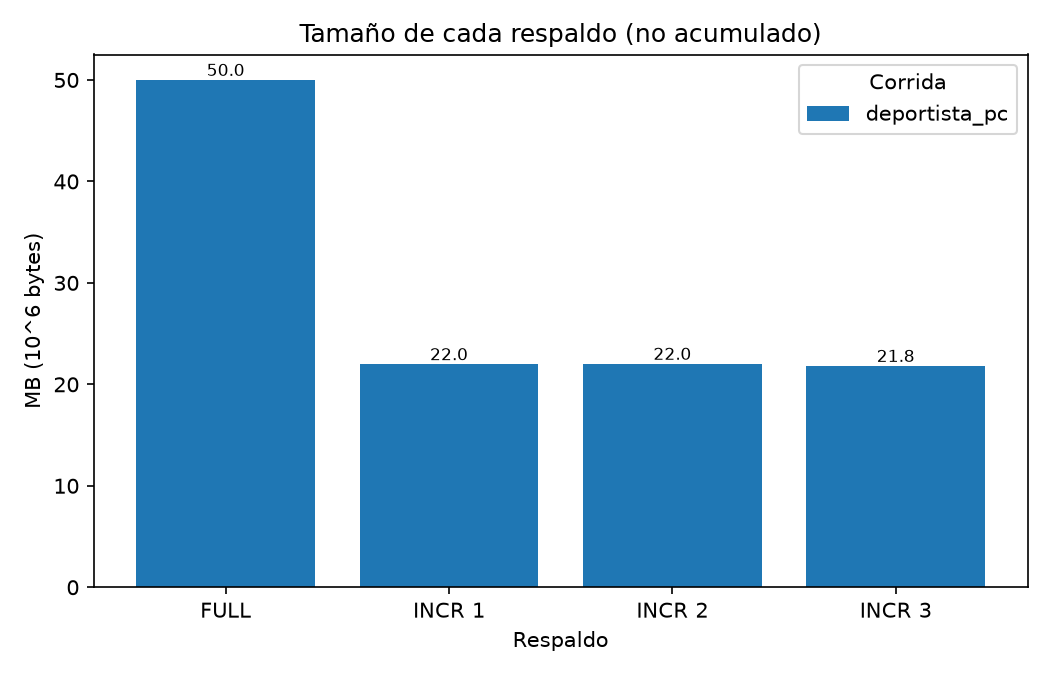
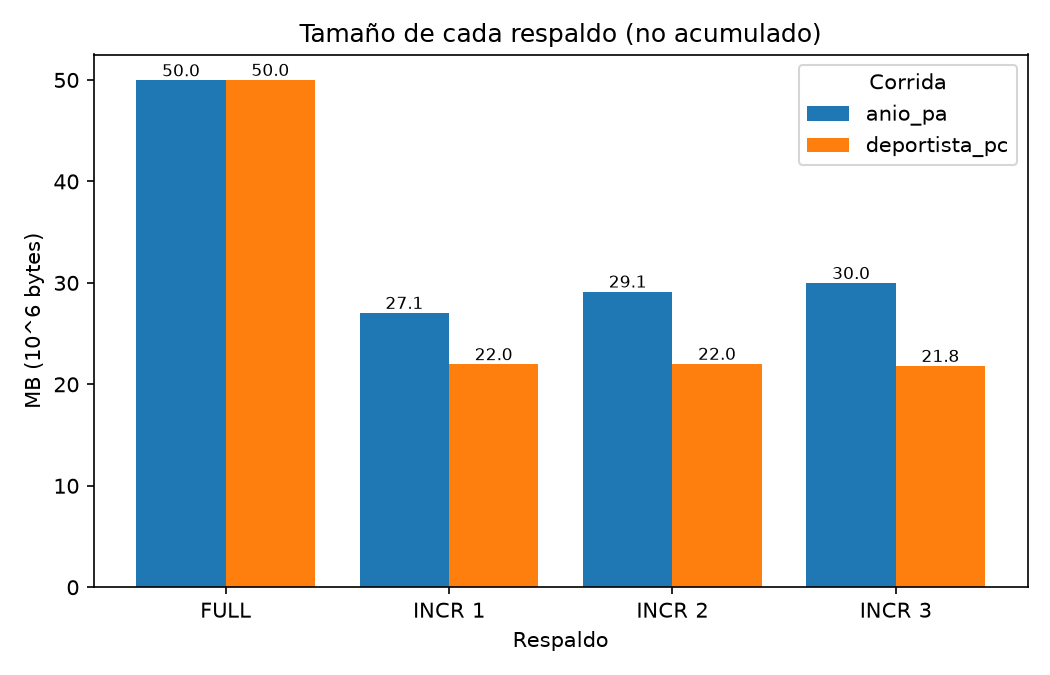
docs: resultados del analisis con anio_pa y deportista_pc
deporte_pb queda excluida: las filas de la repeticion 1 solo coinciden con logs rotados, no con los logs actuales.

diff --git a/Fase 2/07_documentacion/analisis/RESUMEN_ANALISIS.md b/Fase 2/07_documentacion/analisis/RESUMEN_ANALISIS.md
@@ -1,18 +1,60 @@
 # Resumen del análisis comparativo (sección 4.10)
 
-Generado por `07_documentacion/analisis/analizar.py` a partir de `05_logs/tiempos_*.csv`. Todos los números salen de los CSV y de los logs; no hay valores escritos a mano.
+Generado por `07_documentacion/analisis/analizar.py` a partir de `05_logs/tiempos_*.csv` y de los logs de cada corrida. Todos los números salen de esos archivos; no hay valores escritos a mano.
 
 ## Datos usados
 
-- `tiempos_anio_pa.csv`: excluido: el encabezado no es el de 14 columnas de la 4.10; tiene 20 líneas y se esperan 53; 4 líneas no tienen 14 campos (líneas 1, 2, 3, 4).
-- `tiempos_deportista_pc.csv`: válido.
-- `tiempos_deporte_pb.csv`: no existe. [PENDIENTE]
+- `tiempos_anio_pa.csv`: válido (formato y cruce con logs).
+- `tiempos_deporte_pb.csv`: **excluido** (4 motivos, todos en `ESTADO_CSV.md`). Primero: fila 9 (restore n=0 rep 1, total 0.741 s, inicio 18:39:29.179): no coincide con `deporte_pb_12_restore_cadena0_rep1.log` (Total 2.444 s, inicio 2026-10-16 22:48:23); solo coincide con el log rotado `deporte_pb_12_restore_cadena0_rep1.20261016_222939.log`.
+- `tiempos_deportista_pc.csv`: válido (formato y cruce con logs).
+- `tiempos_deportista_pa.csv`: no existe. [PENDIENTE]
+- `tiempos_deportista_pb.csv`: no existe. [PENDIENTE]
 
 Detalle en `ESTADO_CSV.md`.
 
 **Advertencia:** las máquinas del equipo son distintas. Entre máquinas se comparan razones (por ejemplo restore(n)/restore(0)), no segundos. Los segundos absolutos solo sirven dentro de una misma corrida.
 
+Las corridas válidas (anio_pa, deportista_pc) difieren a la vez en el tipo de carga y en la máquina (pa-laptop, pc-laptop). Entre ellas solo se comparan razones, y aun así no se puede separar el efecto de la carga del de la máquina.
+
 ## Medido
+
+### Corrida `anio_pa` (máquina `pa-laptop`)
+
+Respaldos (etapa `basebackup`):
+
+- FULL: 1.927 s, 49973573 bytes (49.97 MB).
+- INCR 1: 1.770 s, 27047530 bytes (27.05 MB).
+- INCR 2: 1.722 s, 29153134 bytes (29.15 MB).
+- INCR 3: 1.738 s, 29988752 bytes (29.99 MB).
+
+Razón de tamaño incr(n).bytes / full.bytes:
+
+- INCR 1: 27047530 / 49973573 = 0.541.
+- INCR 2: 29153134 / 49973573 = 0.583.
+- INCR 3: 29988752 / 49973573 = 0.600.
+
+Restauración, mediana de 3 repeticiones por etapa (sin `total`):
+
+- n=0: combinar 0.272 s, arranque 1.549 s, validacion 0.250 s.
+- n=1: combinar 1.566 s, arranque 1.347 s, validacion 0.291 s.
+- n=2: combinar 1.601 s, arranque 1.346 s, validacion 0.311 s.
+- n=3: combinar 1.580 s, arranque 1.366 s, validacion 0.318 s.
+
+Restauración, `total` (mediana) y razón restore(n) / restore(0):
+
+- n=0: 2.238 s, razón 1.000.
+- n=1: 3.393 s, razón 1.516.
+- n=2: 3.447 s, razón 1.540.
+- n=3: 3.430 s, razón 1.533.
+
+`pg_verifybackup` dentro de `total` (de los logs de restauración):
+
+- n=0: mediana 0.088 s, 3.9 % del total.
+- n=1: mediana 0.095 s, 2.8 % del total.
+- n=2: mediana 0.098 s, 2.8 % del total.
+- n=3: mediana 0.095 s, 2.7 % del total.
+
+`pg_verifybackup` de los respaldos (fuera del tiempo medido, solo informativo): FULL 0.083 s, INCR 1 0.081 s, INCR 2 0.081 s, INCR 3 0.078 s.
 
 ### Corrida `deportista_pc` (máquina `pc-laptop`)
 
@@ -54,10 +96,11 @@ Restauración, `total` (mediana) y razón restore(n) / restore(0):
 
 ### Comparación entre máquinas (tabla d, gráfico 4)
 
-[PENDIENTE] Solo hay una máquina con CSV válido de deportista (pc-laptop). La tabla (d) y el gráfico 4 se generan cuando existan `tiempos_deportista_pa.csv` y `tiempos_deportista_pb.csv` válidos.
+[PENDIENTE] Solo hay una máquina con corrida válida de deportista (pc-laptop). La tabla (d) y el gráfico 4 se generan cuando haya corridas válidas de deportista en otra máquina.
 
 ### Gráficos
 
+- `graficos/grafico1_etapas_restauracion_anio_pa.png`
 - `graficos/grafico1_etapas_restauracion_deportista_pc.png`
 - `graficos/grafico2_tamano_respaldos.png`
 - `graficos/grafico3_razon_restauracion.png`
@@ -67,15 +110,29 @@ Restauración, `total` (mediana) y razón restore(n) / restore(0):
 
 Esta sección interpreta los números de arriba. No son mediciones nuevas.
 
-- **Costo fijo en la carga de Bolt.** Las rondas de Bolt agregan muy pocas filas, pero cada INCR pesa entre 0.436 y 0.441 veces el FULL (21.82 a 22.03 MB). La hipótesis de la 4.10 es que ese tamaño lo domina un piso fijo (al menos un segmento de WAL de 16 MB y archivos del sistema) y no los datos nuevos. Falta confirmarlo midiendo `pg_wal` dentro de cada respaldo. [PENDIENTE]
-- **Restauración.** La cadena completa (n=3) tomó 1.30 veces lo que el FULL. `combinar` sube de 0.249 s con n=0 a 0.713 a 0.761 s con n=1 a 3, mientras `arranque` baja de 0.736 s a 0.532 a 0.629 s. Con n=0 `restaurar.sh` copia el FULL con `cp -a`; con n mayor o igual a 1 usa `pg_combinebackup`, así que n=0 y n=1 no miden la misma herramienta. Entre n=1 y n=3 el `total` cambia de 1.524 a 1.647 s. Con tres repeticiones y diferencias de décimas de segundo, no se interpreta la causa de la baja de `arranque`.
-- **Alcance.** Con Bolt domina el costo fijo de cada respaldo y de cada restauración: el tiempo medido más largo de la corrida es 1.647 s (respaldos y `total` mediano). Estos números **no** sirven para concluir en general si conviene el respaldo incremental o el FULL frecuente: esa comparación necesita las corridas con más volumen (por año y por deporte). [PENDIENTE]
-- **Repeticiones.** Se reporta la mediana de 3 repeticiones. La caché del sistema operativo puede favorecer a las repeticiones 2 y 3.
-- **pg_verifybackup** pesó entre 3.5 % y 4.3 % del `total` de restauración (mediana por n).
+### `anio_pa`
+
+- **Tamaño de los respaldos.** Cada INCR pesa entre 0.541 y 0.600 veces el FULL (27.05 a 29.99 MB, FULL 49.97 MB). La parte del INCR que corresponde a datos nuevos y la que corresponde al piso fijo (WAL y archivos del sistema) no se pueden separar con estos números. Falta medir `pg_wal` dentro de cada respaldo para confirmarlo. [PENDIENTE]
+- **Restauración.** La cadena completa (n=3) tomó 1.53 veces lo que el FULL. `combinar` pasa de 0.272 s con n=0 a 1.566 a 1.601 s con n=1 a 3, y `arranque` pasa de 1.549 s a 1.346 a 1.366 s. Con n=0 `restaurar.sh` copia el FULL con `cp -a`; con n mayor o igual a 1 usa `pg_combinebackup`, así que n=0 y n=1 no miden la misma herramienta. Entre n=1 y n=3 el `total` va de 3.393 a 3.430 s.
+- **Escala.** El tiempo medido más largo de la corrida es 3.447 s (respaldos y `total` mediano).
+
+### `deportista_pc`
+
+- **Tamaño de los respaldos.** Cada INCR pesa entre 0.436 y 0.441 veces el FULL (21.82 a 22.03 MB, FULL 50.01 MB). Las rondas de Bolt agregan muy pocas filas, así que la hipótesis de la 4.10 es que ese tamaño lo domina un piso fijo (al menos un segmento de WAL de 16 MB y archivos del sistema) y no los datos nuevos. Falta medir `pg_wal` dentro de cada respaldo para confirmarlo. [PENDIENTE]
+- **Restauración.** La cadena completa (n=3) tomó 1.30 veces lo que el FULL. `combinar` pasa de 0.249 s con n=0 a 0.713 a 0.761 s con n=1 a 3, y `arranque` pasa de 0.736 s a 0.532 a 0.629 s. Con n=0 `restaurar.sh` copia el FULL con `cp -a`; con n mayor o igual a 1 usa `pg_combinebackup`, así que n=0 y n=1 no miden la misma herramienta. Entre n=1 y n=3 el `total` va de 1.524 a 1.647 s.
+- **Escala.** El tiempo medido más largo de la corrida es 1.647 s (respaldos y `total` mediano). Con tan pocas filas por ronda, estos tiempos reflejan sobre todo el costo fijo de cada operación y no sirven para hablar del costo por volumen de datos.
+
+### Alcance
+
+- Se reporta la mediana de 3 repeticiones. La caché del sistema operativo puede favorecer a las repeticiones 2 y 3.
+- Estos números no bastan para concluir en general si conviene el FULL frecuente, el incremental o el diferencial: las corridas válidas difieren en carga y en máquina a la vez, y el piso fijo de cada respaldo (`pg_wal`) no está medido. [PENDIENTE]
+- `pg_verifybackup` pesó entre 2.7 % y 4.3 % del `total` de restauración (mediana por n) en anio_pa, deportista_pc.
 
 ## Pendiente
 
-- [PENDIENTE] CSV válidos de `anio_pa`, `deporte_pb`, `deportista_pa` y `deportista_pb`.
-- [PENDIENTE] Tabla (d) y gráfico 4 (requieren más de una máquina).
-- [PENDIENTE] Recomendación por escenario (FULL, incremental, diferencial): requiere las corridas con más volumen.
+- [PENDIENTE] Corrida válida de `deporte_pb` (excluida; ver `ESTADO_CSV.md`).
+- [PENDIENTE] `tiempos_deportista_pa.csv` no existe.
+- [PENDIENTE] `tiempos_deportista_pb.csv` no existe.
+- [PENDIENTE] Tabla (d) y gráfico 4 (requieren corridas válidas de deportista en más de una máquina).
 - [PENDIENTE] Tamaño de `pg_wal` dentro de cada respaldo, para confirmar el piso fijo.
+- [PENDIENTE] Recomendación por escenario (FULL, incremental, diferencial).

diff --git a/Fase 2/07_documentacion/analisis/ESTADO_CSV.md b/Fase 2/07_documentacion/analisis/ESTADO_CSV.md
@@ -1,9 +1,11 @@
 # Estado de los CSV de tiempos
 
-Generado por `analizar.py`. Criterios: encabezado de 14 columnas de la sección 4.10, 53 líneas, 14 campos por línea, UTF-8 sin BOM, LF, 0 filas con ALERTA y `paso` de dos dígitos leído como texto.
+Generado por `analizar.py`. Un CSV entra al análisis si cumple el formato de la sección 4.10 (53 líneas, 14 campos por línea, UTF-8 sin BOM, LF, 0 ALERTA, 1 FULL, 3 INCR y 12 filas por etapa de restauración, `paso` como texto) y si sus filas coinciden con los logs actuales de la corrida: `segundos` y `bytes` de cada respaldo, y `Total:` y hora de inicio de cada restauración. Los logs rotados (`.AAAAMMDD_HHMMSS.log`) no cuentan como respaldo de una fila.
 
-| Archivo | Estado | Motivo |
-|---|---|---|
-| `tiempos_anio_pa.csv` | excluido | el encabezado no es el de 14 columnas de la 4.10; tiene 20 líneas y se esperan 53; 4 líneas no tienen 14 campos (líneas 1, 2, 3, 4) |
-| `tiempos_deportista_pc.csv` | válido |  |
-| `tiempos_deporte_pb.csv` | no existe | [PENDIENTE] |
+| Archivo | Estado | Logs rotados | Motivo |
+|---|---|---:|---|
+| `tiempos_anio_pa.csv` | válido | 0 |  |
+| `tiempos_deporte_pb.csv` | excluido | 37 | fila 9 (restore n=0 rep 1, total 0.741 s, inicio 18:39:29.179): no coincide con `deporte_pb_12_restore_cadena0_rep1.log` (Total 2.444 s, inicio 2026-10-16 22:48:23); solo coincide con el log rotado `deporte_pb_12_restore_cadena0_rep1.20261016_222939.log`<br>fila 13 (restore n=1 rep 1, total 2.102 s, inicio 18:39:41.027): no coincide con `deporte_pb_13_restore_cadena1_rep1.log` (Total 8.431 s, inicio 2026-10-16 22:48:26); solo coincide con el log rotado `deporte_pb_13_restore_cadena1_rep1.20261016_224658.log`<br>fila 17 (restore n=2 rep 1, total 2.215 s, inicio 18:40:03.584): no coincide con `deporte_pb_14_restore_cadena2_rep1.log` (Total 3.840 s, inicio 2026-10-16 22:48:45); solo coincide con el log rotado `deporte_pb_14_restore_cadena2_rep1.20261016_224731.log`<br>fila 21 (restore n=3 rep 1, total 2.107 s, inicio 18:40:24.928): no coincide con `deporte_pb_15_restore_cadena3_rep1.log` (Total 3.768 s, inicio 2026-10-16 22:48:50); solo coincide con el log rotado `deporte_pb_15_restore_cadena3_rep1.20261016_224737.log` |
+| `tiempos_deportista_pc.csv` | válido | 0 |  |
+| `tiempos_deportista_pa.csv` | no existe | | [PENDIENTE] |
+| `tiempos_deportista_pb.csv` | no existe | | [PENDIENTE] |

diff --git a/Fase 2/07_documentacion/analisis/tabla_b_restauracion_etapas.md b/Fase 2/07_documentacion/analisis/tabla_b_restauracion_etapas.md
@@ -4,6 +4,10 @@ Sin la etapa `total`. Cada columna es la mediana de esa etapa por separado. La s
 
 | corrida | maquina | n | repeticiones | combinar_s | arranque_s | validacion_s |
 |---|---|---:|---:|---:|---:|---:|
+| anio_pa | pa-laptop | 0 | 3 | 0.272 | 1.549 | 0.25 |
+| anio_pa | pa-laptop | 1 | 3 | 1.566 | 1.347 | 0.291 |
+| anio_pa | pa-laptop | 2 | 3 | 1.601 | 1.346 | 0.311 |
+| anio_pa | pa-laptop | 3 | 3 | 1.58 | 1.366 | 0.318 |
 | deportista_pc | pc-laptop | 0 | 3 | 0.249 | 0.736 | 0.152 |
 | deportista_pc | pc-laptop | 1 | 3 | 0.713 | 0.533 | 0.162 |
 | deportista_pc | pc-laptop | 2 | 3 | 0.753 | 0.532 | 0.157 |

diff --git a/Fase 2/07_documentacion/analisis/tabla_a_respaldos.md b/Fase 2/07_documentacion/analisis/tabla_a_respaldos.md
@@ -4,6 +4,10 @@
 
 | corrida | maquina | paso | respaldo | segundos | bytes | MB |
 |---|---|---|---|---:|---:|---:|
+| anio_pa | pa-laptop | 02 | FULL | 1.927 | 49973573 | 49.97 |
+| anio_pa | pa-laptop | 04 | INCR 1 | 1.77 | 27047530 | 27.05 |
+| anio_pa | pa-laptop | 06 | INCR 2 | 1.722 | 29153134 | 29.15 |
+| anio_pa | pa-laptop | 08 | INCR 3 | 1.738 | 29988752 | 29.99 |
 | deportista_pc | pc-laptop | 02 | FULL | 0.975 | 50006396 | 50.01 |
 | deportista_pc | pc-laptop | 04 | INCR 1 | 0.92 | 21992494 | 21.99 |
 | deportista_pc | pc-laptop | 06 | INCR 2 | 0.784 | 22033700 | 22.03 |

diff --git a/Fase 2/07_documentacion/analisis/tabla_c2_razon_bytes.md b/Fase 2/07_documentacion/analisis/tabla_c2_razon_bytes.md
@@ -2,6 +2,9 @@
 
 | corrida | maquina | n | incr_bytes | full_bytes | razon_incr_vs_full |
 |---|---|---:|---:|---:|---:|
+| anio_pa | pa-laptop | 1 | 27047530 | 49973573 | 0.541 |
+| anio_pa | pa-laptop | 2 | 29153134 | 49973573 | 0.583 |
+| anio_pa | pa-laptop | 3 | 29988752 | 49973573 | 0.6 |
 | deportista_pc | pc-laptop | 1 | 21992494 | 50006396 | 0.44 |
 | deportista_pc | pc-laptop | 2 | 22033700 | 50006396 | 0.441 |
 | deportista_pc | pc-laptop | 3 | 21820787 | 50006396 | 0.436 |

diff --git a/Fase 2/07_documentacion/analisis/tabla_e_pg_verifybackup.md b/Fase 2/07_documentacion/analisis/tabla_e_pg_verifybackup.md
@@ -4,6 +4,10 @@ Segundos leídos de la línea `pg_verifybackup: X s` de cada log de restauració
 
 | corrida | n | verify_mediana_s | total_mediana_s | pct_mediana |
 |---|---:|---:|---:|---:|
+| anio_pa | 0 | 0.088 | 2.238 | 3.9 |
+| anio_pa | 1 | 0.095 | 3.393 | 2.8 |
+| anio_pa | 2 | 0.098 | 3.447 | 2.8 |
+| anio_pa | 3 | 0.095 | 3.43 | 2.7 |
 | deportista_pc | 0 | 0.055 | 1.267 | 4.3 |
 | deportista_pc | 1 | 0.055 | 1.524 | 3.6 |
 | deportista_pc | 2 | 0.055 | 1.551 | 3.5 |

diff --git a/Fase 2/07_documentacion/analisis/tabla_c1_razon_restauracion.md b/Fase 2/07_documentacion/analisis/tabla_c1_razon_restauracion.md
@@ -4,6 +4,10 @@ Solo `etapa == total`, mediana de las repeticiones.
 
 | corrida | maquina | n | total_mediana_s | razon_vs_n0 |
 |---|---|---:|---:|---:|
+| anio_pa | pa-laptop | 0 | 2.238 | 1.0 |
+| anio_pa | pa-laptop | 1 | 3.393 | 1.516 |
+| anio_pa | pa-laptop | 2 | 3.447 | 1.54 |
+| anio_pa | pa-laptop | 3 | 3.43 | 1.533 |
 | deportista_pc | pc-laptop | 0 | 1.267 | 1.0 |
 | deportista_pc | pc-laptop | 1 | 1.524 | 1.203 |
 | deportista_pc | pc-laptop | 2 | 1.551 | 1.224 |

diff --git a/Fase 2/07_documentacion/analisis/tabla_d_maquinas.md b/Fase 2/07_documentacion/analisis/tabla_d_maquinas.md
@@ -1,3 +1,3 @@
 # Tabla (d): razones de Bolt por máquina
 
-[PENDIENTE] Solo hay una máquina con CSV válido de deportista (pc-laptop). Falta `tiempos_deportista_pa.csv` y `tiempos_deportista_pb.csv`.
+[PENDIENTE] Solo hay una máquina con corrida válida de deportista (pc-laptop). Faltan corridas válidas de `deportista_pa` y `deportista_pb`.
